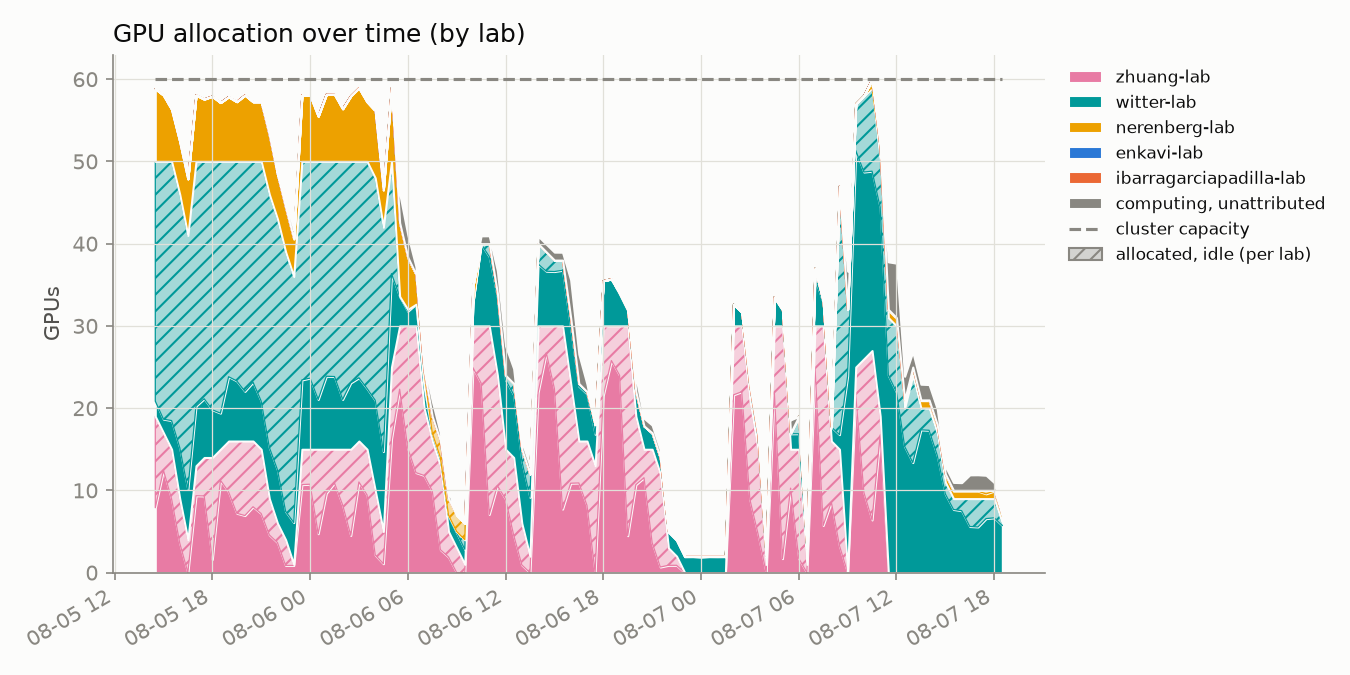
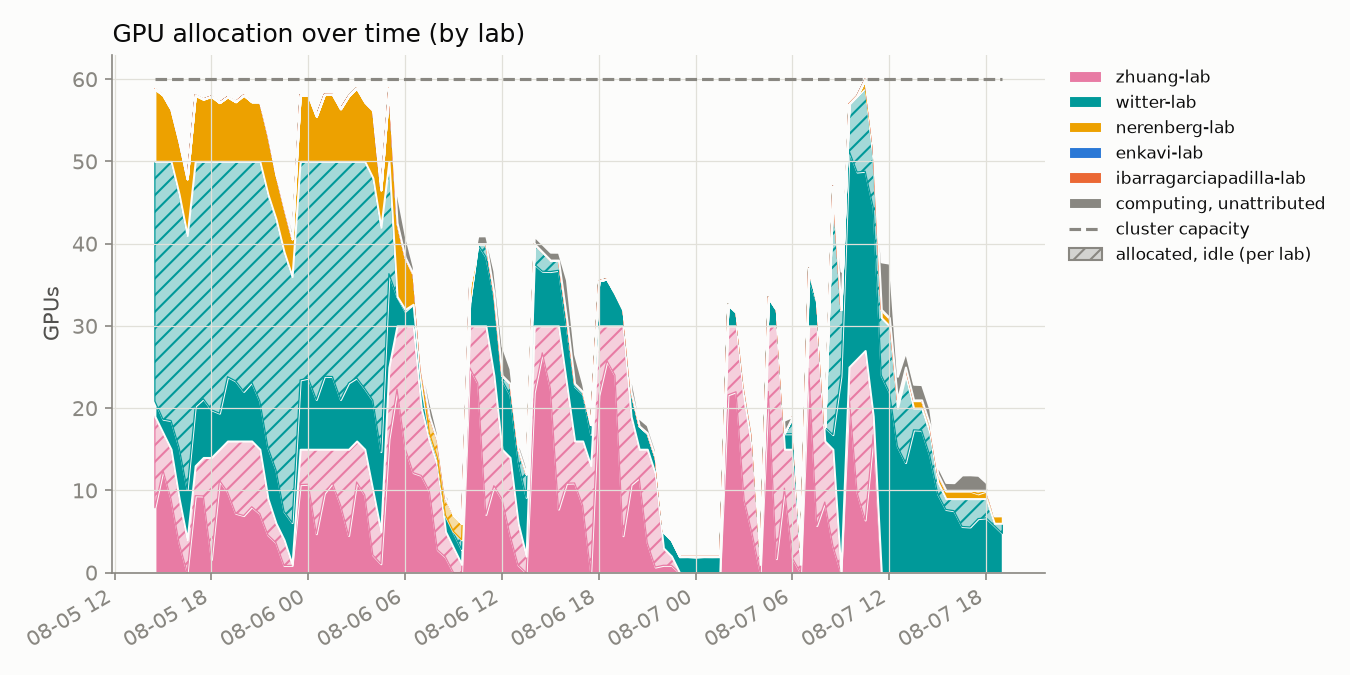
update 2026-08-07T19:00:01-07:00

diff --git a/README.md b/README.md
@@ -2,8 +2,8 @@
 
 Automated GPU/CPU/queue utilization tracker for `hopper.cluster`, updated every 30 minutes by cron. Usernames are anonymized to a stable per-account pseudonym; lab names are real.
 
-Last updated: 2026-08-07T18:30:10-07:00
-Samples: 105 queue snapshots, 105 GPU snapshots
+Last updated: 2026-08-07T19:00:09-07:00
+Samples: 106 queue snapshots, 106 GPU snapshots
 
 ## Resources
 
@@ -16,9 +16,9 @@ Samples: 105 queue snapshots, 105 GPU snapshots
 
 ## Headline
 
-- **51.3%** of the cluster's 60 GPUs allocated, averaged across all samples
+- **50.9%** of the cluster's 60 GPUs allocated, averaged across all samples
 - **46.4%** average `nvidia-smi` utilization *when* a GPU is allocated to a job
-- **87.1%** average cgroup CPU utilization *when* a CPU is allocated to a job
+- **87.2%** average cgroup CPU utilization *when* a CPU is allocated to a job
 
 ## Per lab / per user
 
@@ -26,14 +26,14 @@ Samples: 105 queue snapshots, 105 GPU snapshots
 <tr><th>Lab</th><th>User</th><th align='right'>GPU-hours allocated</th><th align='right'>CPU-hours allocated</th><th align='right'>GPU utilization</th></tr>
 <tr style='background-color:#fbebf1'><td>zhuang-lab</td><td>user-0db9ced0</td><td align='right'>722.0</td><td align='right'>722.0</td><td align='right'>48%</td></tr>
 <tr style='background-color:#d8efef'><td>witter-lab</td><td>user-d58f5a15</td><td align='right'>467.5</td><td align='right'>3740.0</td><td align='right'>9%</td></tr>
-<tr style='background-color:#d8efef'><td>witter-lab</td><td>user-554c620c</td><td align='right'>376.5</td><td align='right'>844.5</td><td align='right'>66%</td></tr>
+<tr style='background-color:#d8efef'><td>witter-lab</td><td>user-554c620c</td><td align='right'>379.5</td><td align='right'>853.5</td><td align='right'>66%</td></tr>
 <tr style='background-color:#fcf0d8'><td>nerenberg-lab</td><td>user-6bb5f332</td><td align='right'>40.0</td><td align='right'>200.0</td><td align='right'>71%</td></tr>
-<tr style='background-color:#fcf0d8'><td>nerenberg-lab</td><td>user-fedb5feb</td><td align='right'>8.5</td><td align='right'>40.0</td><td align='right'>50%</td></tr>
-<tr style='background-color:#dfeaf8'><td>enkavi-lab</td><td>user-c21bdaa4</td><td align='right'>0.0</td><td align='right'>171.0</td><td align='right'>—</td></tr>
-<tr style='background-color:#fce8e0'><td>ibarragarciapadilla-lab</td><td>user-dad71a72</td><td align='right'>0.0</td><td align='right'>6.0</td><td align='right'>—</td></tr>
+<tr style='background-color:#fcf0d8'><td>nerenberg-lab</td><td>user-fedb5feb</td><td align='right'>9.0</td><td align='right'>40.5</td><td align='right'>51%</td></tr>
+<tr style='background-color:#fce8e0'><td>ibarragarciapadilla-lab</td><td>user-3cfc41a3</td><td align='right'>0.0</td><td align='right'>3720.0</td><td align='right'>—</td></tr>
 <tr style='background-color:#fce8e0'><td>ibarragarciapadilla-lab</td><td>user-eec7ffae</td><td align='right'>0.0</td><td align='right'>426.5</td><td align='right'>—</td></tr>
 <tr style='background-color:#fcf0d8'><td>nerenberg-lab</td><td>user-b12dc074</td><td align='right'>0.0</td><td align='right'>16.0</td><td align='right'>—</td></tr>
-<tr style='background-color:#fce8e0'><td>ibarragarciapadilla-lab</td><td>user-3cfc41a3</td><td align='right'>0.0</td><td align='right'>3712.5</td><td align='right'>—</td></tr>
+<tr style='background-color:#fce8e0'><td>ibarragarciapadilla-lab</td><td>user-dad71a72</td><td align='right'>0.0</td><td align='right'>6.0</td><td align='right'>—</td></tr>
+<tr style='background-color:#dfeaf8'><td>enkavi-lab</td><td>user-c21bdaa4</td><td align='right'>0.0</td><td align='right'>171.0</td><td align='right'>—</td></tr>
 </table>
 
 ## Usage over time
@@ -44,7 +44,7 @@ Samples: 105 queue snapshots, 105 GPU snapshots
 
 Solid = utilized by lab, hatched = allocated but idle, gray = usage not traceable to a lab, dashed line = cluster capacity.
 
-Attribution combines `nvidia-smi`'s process listing with Slurm's GPU-to-job binding record; the latter caught **2416** readings the former missed.
+Attribution combines `nvidia-smi`'s process listing with Slurm's GPU-to-job binding record; the latter caught **2420** readings the former missed.
 
 ## Queue
 
@@ -56,13 +56,13 @@ Attribution combines `nvidia-smi`'s process listing with Slurm's GPU-to-job bind
 
 ![CPU usage vs GPU usage, decayed](assets/cpu_gpu_usage.png)
 
-One point per user per snapshot (n=512), usage decayed on Slurm's ~7-day fairshare half-life.
+One point per user per snapshot (n=516), usage decayed on Slurm's ~7-day fairshare half-life.
 
 **GPU usage doesn't count toward priority on this cluster** (`TRESBillingWeights`/`PriorityWeightTRES` unset) - watch the **upper-left**: low CPU usage (high priority) with high GPU usage.
 
 ## Recommendations
 
-1. **Weight GPU usage in fairshare.** `TRESBillingWeights` and `PriorityWeightTRES` are both unset right now, so Slurm's fairshare score only sees CPU-seconds - a job holding 4 idle L40S GPUs costs nothing in priority as long as it isn't also holding CPUs. That's the exact failure mode the scatter above is built to catch (upper-left: low CPU usage, high GPU usage). Fix: `scontrol update partition=main TRESBillingWeights=CPU=1.0,GRES/gpu=<weight>` (or set `PriorityWeightTRES` cluster-wide), then `scontrol reconfigure` - a full `slurmctld` restart also works but drops in-flight priority state. A reasonable starting point for `<weight>` is the CPUs-per-GPU ratio on a GPU node (128 CPUs / 4 GPUs = 32), so one GPU costs as much fairshare as the CPU share it displaces; tune from there against next week's headline numbers (51.3% allocated, 46.4% utilized when allocated, as of this snapshot). The weight value itself is a policy call - loop in whoever owns cluster allocation policy before changing it.
+1. **Weight GPU usage in fairshare.** `TRESBillingWeights` and `PriorityWeightTRES` are both unset right now, so Slurm's fairshare score only sees CPU-seconds - a job holding 4 idle L40S GPUs costs nothing in priority as long as it isn't also holding CPUs. That's the exact failure mode the scatter above is built to catch (upper-left: low CPU usage, high GPU usage). Fix: `scontrol update partition=main TRESBillingWeights=CPU=1.0,GRES/gpu=<weight>` (or set `PriorityWeightTRES` cluster-wide), then `scontrol reconfigure` - a full `slurmctld` restart also works but drops in-flight priority state. A reasonable starting point for `<weight>` is the CPUs-per-GPU ratio on a GPU node (128 CPUs / 4 GPUs = 32), so one GPU costs as much fairshare as the CPU share it displaces; tune from there against next week's headline numbers (50.9% allocated, 46.4% utilized when allocated, as of this snapshot). The weight value itself is a policy call - loop in whoever owns cluster allocation policy before changing it.
 
 2. **Escalate on sustained low utilization** (see table and scatter above). Right now the clearest candidate is `user-d58f5a15` in `witter-lab`: 467.5 GPU-hours allocated at 9% average utilization, i.e. roughly 424 GPU-hours that sat idle instead of going to someone in the queue. Turning that into an automated escalation needs two decisions made up front: a utilization threshold (something like under 20% mean utilization over at least 50 allocated GPU-hours is a defensible starting bar - loose enough to skip short debugging runs, tight enough to catch parked allocations) and a grace period (how many consecutive low-utilization snapshots before it counts as "sustained" rather than a momentary lull between batches). Once those are set, the mechanism can be either soft (a bot that reads `data/gpu_samples.jsonl` and reminds the user/lab by email or Slack) or hard (a Slurm-side QOS penalty, e.g. `sacctmgr modify qos <qos> set Priority-=<n>`, applied after N consecutive offending snapshots). Neither exists yet - today the table and scatter above are a read-only signal, not an enforced policy.
 
